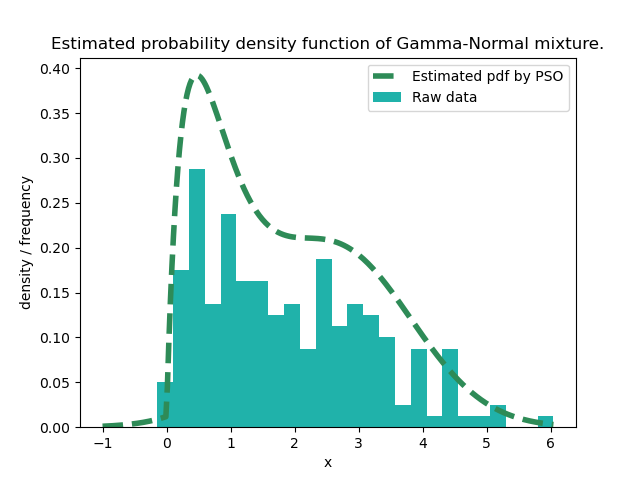
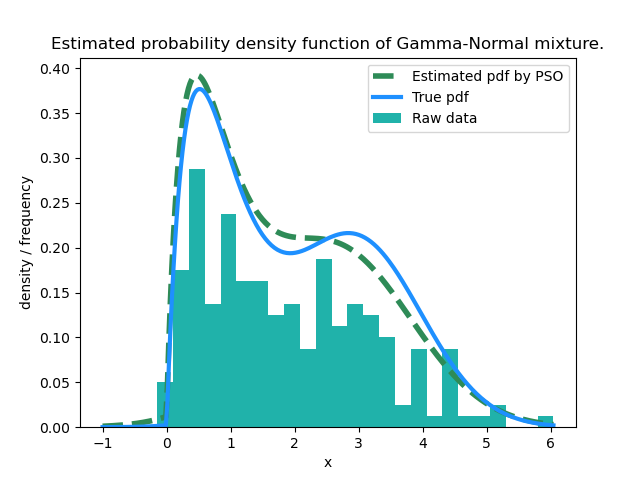
Rasch model done

diff --git a/codes/pso_rasch_model.py b/codes/pso_rasch_model.py
@@ -1,12 +1,7 @@
 import pyswarms as ps
-from pyswarms.utils.functions import single_obj as fx
-from pyswarms.utils.plotters import plot_cost_history, plot_contour, plot_surface
 import matplotlib.pyplot as plt
-import scipy
-import numpy as np
+from scipy.optimize import fsolve
 import pandas as pd
-from sklearn.linear_model import LinearRegression, Lasso, Ridge
-from sklearn.preprocessing import StandardScaler
 from codes.API.EM_Rasch_API import *
 
 def Rasch_MMLE(particles, parameters):
@@ -32,12 +27,11 @@ def Rasch_MMLE(particles, parameters):
     log_lik = np.zeros((particles.shape[0]))
 
     for i in range(particles.shape[0]):
-        initial_value = particles[i]  # (I+2)
+        initial_value = particles[i]  # (I+1)
 
-        # set-up parameters to be updated (parameters is an (I+2) vector)
+        # set-up parameters to be updated (parameters is an (I+1) vector)
         betas = initial_value[:I]
         sigma = np.abs(initial_value[I])
-        mu = initial_value[I + 1]
 
         # Gaussian-Hermite nodes and weights
         nodes, weights = np.polynomial.hermite.hermgauss(nodes_num)
@@ -45,12 +39,6 @@ def Rasch_MMLE(particles, parameters):
         nodes *= np.sqrt(2)
 
         ### Calculate marginal log-likelihood
-
-        # Initialize marginals: Nx1 vector
-        marginal = np.zeros(N)
-
-        # Adjust nodes
-        nodes = nodes + mu
 
         # Calculate marginals: Nx1 vector
         marginal = (f_y(Y, betas, sigma, nodes) * H(nodes, fct="one")).dot(weights)
@@ -65,22 +53,56 @@ Y = data[:, :24]
 N, I = np.shape(Y)
 G = 1
 beta_init = 0.5 * np.ones((I, G)); sigma_init = 2 * np.ones((1, G))
-pi_init = [1 / G] * G; mu_init = [0] * G
-init_value = np.vstack((beta_init, sigma_init, mu_init))
+init_value = np.vstack((beta_init, sigma_init))
 
-bounds = [tuple(np.hstack((np.repeat(-np.inf, (I+2))))),
-          tuple(np.hstack((np.repeat(np.inf, (I+2)))))]
+bounds = [tuple(np.hstack((np.repeat(-np.inf, (I+1))))),
+          tuple(np.hstack((np.repeat(np.inf, (I+1)))))]
 
+"""PSO algorithm"""
 # Set-up hyperparameters
 options = {'c1': 0.5, 'c2': 0.3, 'w':0.9}
-n = 20
+n = 50
 init_pos = np.repeat(init_value.reshape((-1,1)), n, axis=1).T
 # Call instance of PSO
-optimizer = ps.single.GlobalBestPSO(n_particles=n, dimensions=(I+2), options=options, bounds=bounds, init_pos=init_pos)
+optimizer = ps.single.GlobalBestPSO(n_particles=n, dimensions=(I+1), options=options, bounds=bounds, init_pos=init_pos)
 # Perform optimization
 best_cost, best_pos = optimizer.optimize(Rasch_MMLE, iters=100, parameters=(Y, 21))
 
-plt.figure(figsize=(10,6))
-plt.plot(range(I), best_pos[:I])
-plt.scatter(range(I), best_pos[:I], c="orange", s=45)
+"""Bock-Aitkin algorithm"""
+beta_init = 0.5 * np.ones((I, 1)); sigma_init = 1.5
+init_value = np.vstack((beta_init, sigma_init)); nodes_num = 21
+betas_t = beta_init; sigma_t = sigma_init
+
+iter_time = 10
+
+for i in range(iter_time):
+    output = fsolve(EM_Rasch, x0=init_value, args=[Y, nodes_num, betas_t, sigma_t])
+    betas_t = output[:-1]
+    sigma_t = output[-1]
+    # print(betas_t)
+    # print(sigma_t)
+
+bock_aitkin = Rasch_MMLE(output.reshape((1, -1)), (Y, 21))
+
+"""Visualization"""
+plt.figure(figsize=(25,8))
+plt.subplot(121)
+plt.plot(range(I+1), best_pos[:], c='dodgerblue', linewidth=2, label="PSO")
+plt.scatter(range(I+1), best_pos[:], c="dodgerblue", s=45)
+plt.scatter(range(I+1), output, c="r", linewidth=1, label="Bock-Aitkin")
+plt.plot(range(I+1), output, c="r")
+plt.legend()
+plt.xlabel("Parameter (beta_1, ..., beta_J, sigma)")
+plt.ylabel("Estimation")
+plt.title("Parameter estimation by PSO with 100 iterations and Bock-Aitkin")
+
+plt.subplot(122)
+plt.plot(optimizer.cost_history, label="PSO", color="dodgerblue")
+plt.scatter(range(len(optimizer.cost_history)), optimizer.cost_history, cmap='summer')
+plt.axhline(y=bock_aitkin, color='r', linestyle='-', label="Bock-Aitkin")
+plt.xlabel("Iteration")
+plt.ylabel("Negative log likelihood")
+plt.legend()
+plt.title("Minimum negative log likelihood found by PSO with 100 iterations and Bock-Aitkin")
+
 plt.show()

diff --git a/codes/numerical examples/pso_gamma_normal_est.py b/codes/numerical examples/pso_gamma_normal_est.py
@@ -89,7 +89,9 @@ print(best_pos.round(3))
 
 points = np.linspace(-1, np.max(x), 300)
 densities = gamma_normal_pdf(points, best_pos[0], best_pos[1], best_pos[2], best_pos[3], best_pos[4])
+oracle = gamma_normal_pdf(points, 0.5, 2, 2, 3, 1)
 plt.plot(points, densities,'--' ,linewidth=4, label="Estimated pdf by PSO", c="seagreen")
+plt.plot(points, oracle, '-', linewidth=3, label="True pdf", c="dodgerblue")
 plt.hist(x, weights=2.5*np.ones(len(x)) / len(x), bins=25, color="lightseagreen", label="Raw data")
 plt.legend()
 plt.xlabel("x")

diff --git a/codes/numerical examples/pso_gamma_normal_fig.py b/codes/numerical examples/pso_gamma_normal_fig.py
@@ -92,7 +92,7 @@ z_ = log_lik_gamma_normal(xxyy_rest, x=x).reshape((n, m))
 # PLOT normal loss fct
 plt.subplot(131)
 plt.title("Negative log liklihood of Normal parameters")
-plt.contourf(xx, yy, z_, 15, cmap='rainbow', alpha=0.5)
+plt.contourf(xx, yy, z_, 15, cmap='summer', alpha=0.5)
 plt.colorbar()
 plt.xlabel("mu")
 plt.ylabel("sigma square")
